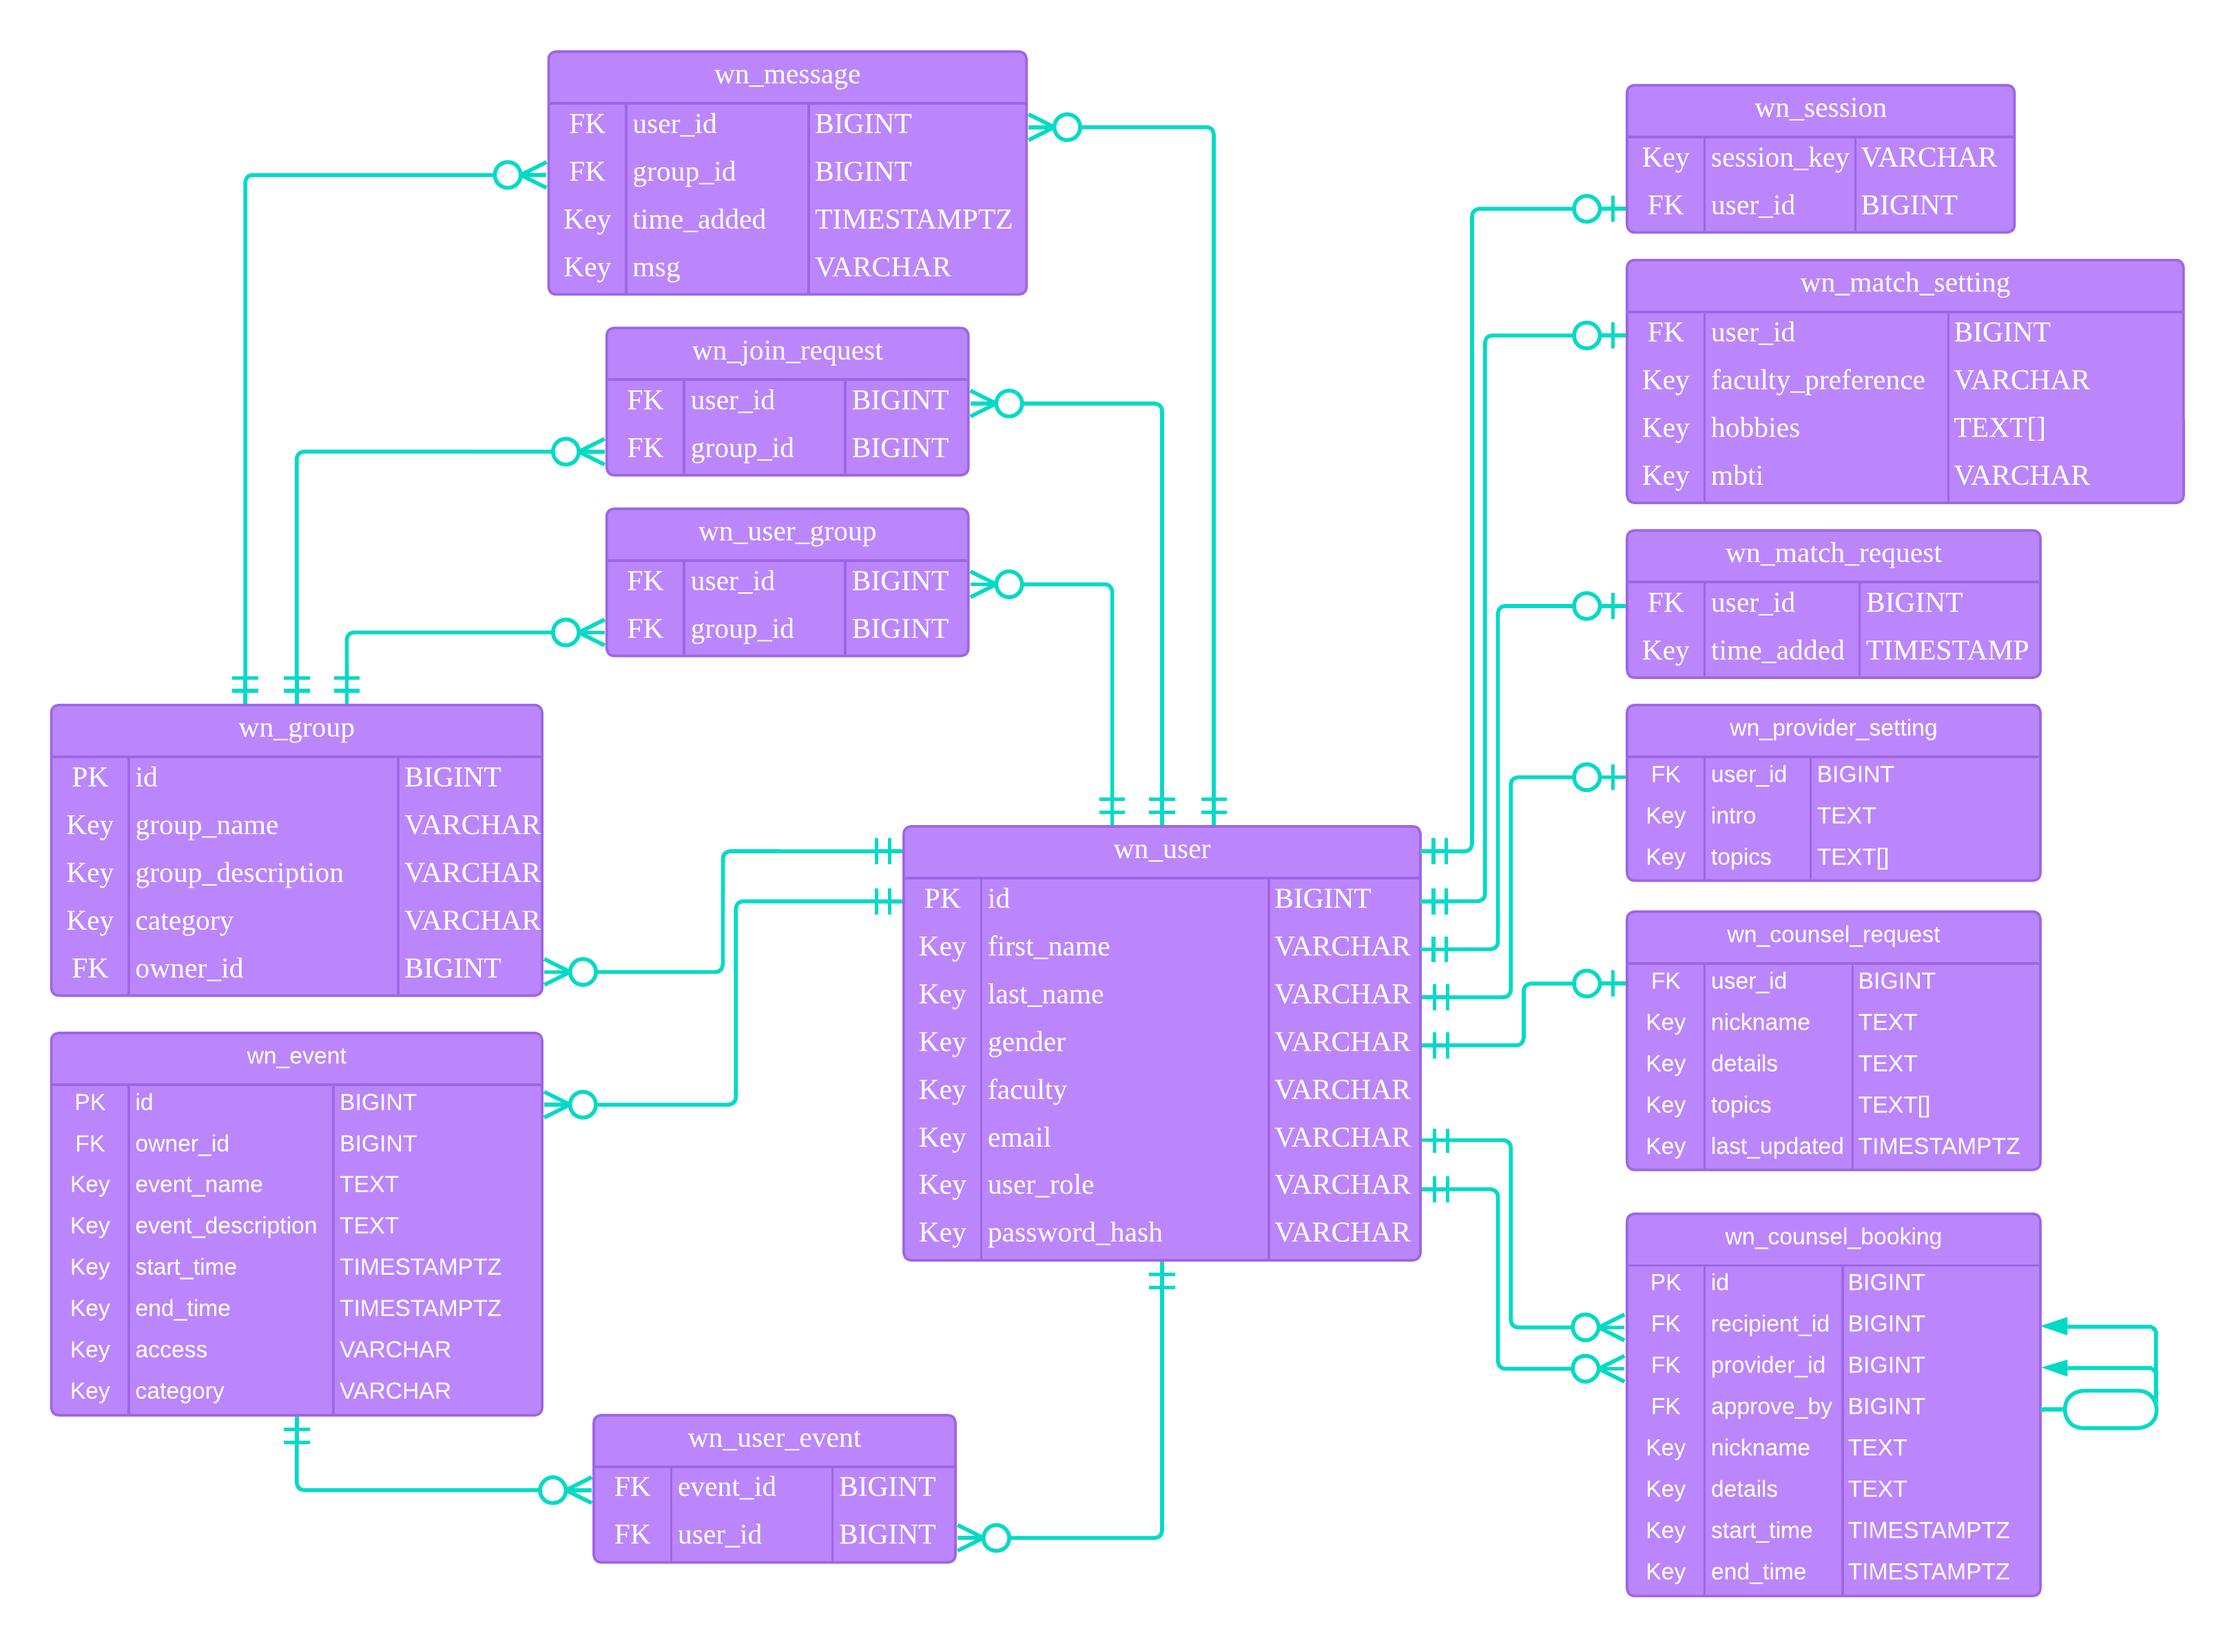
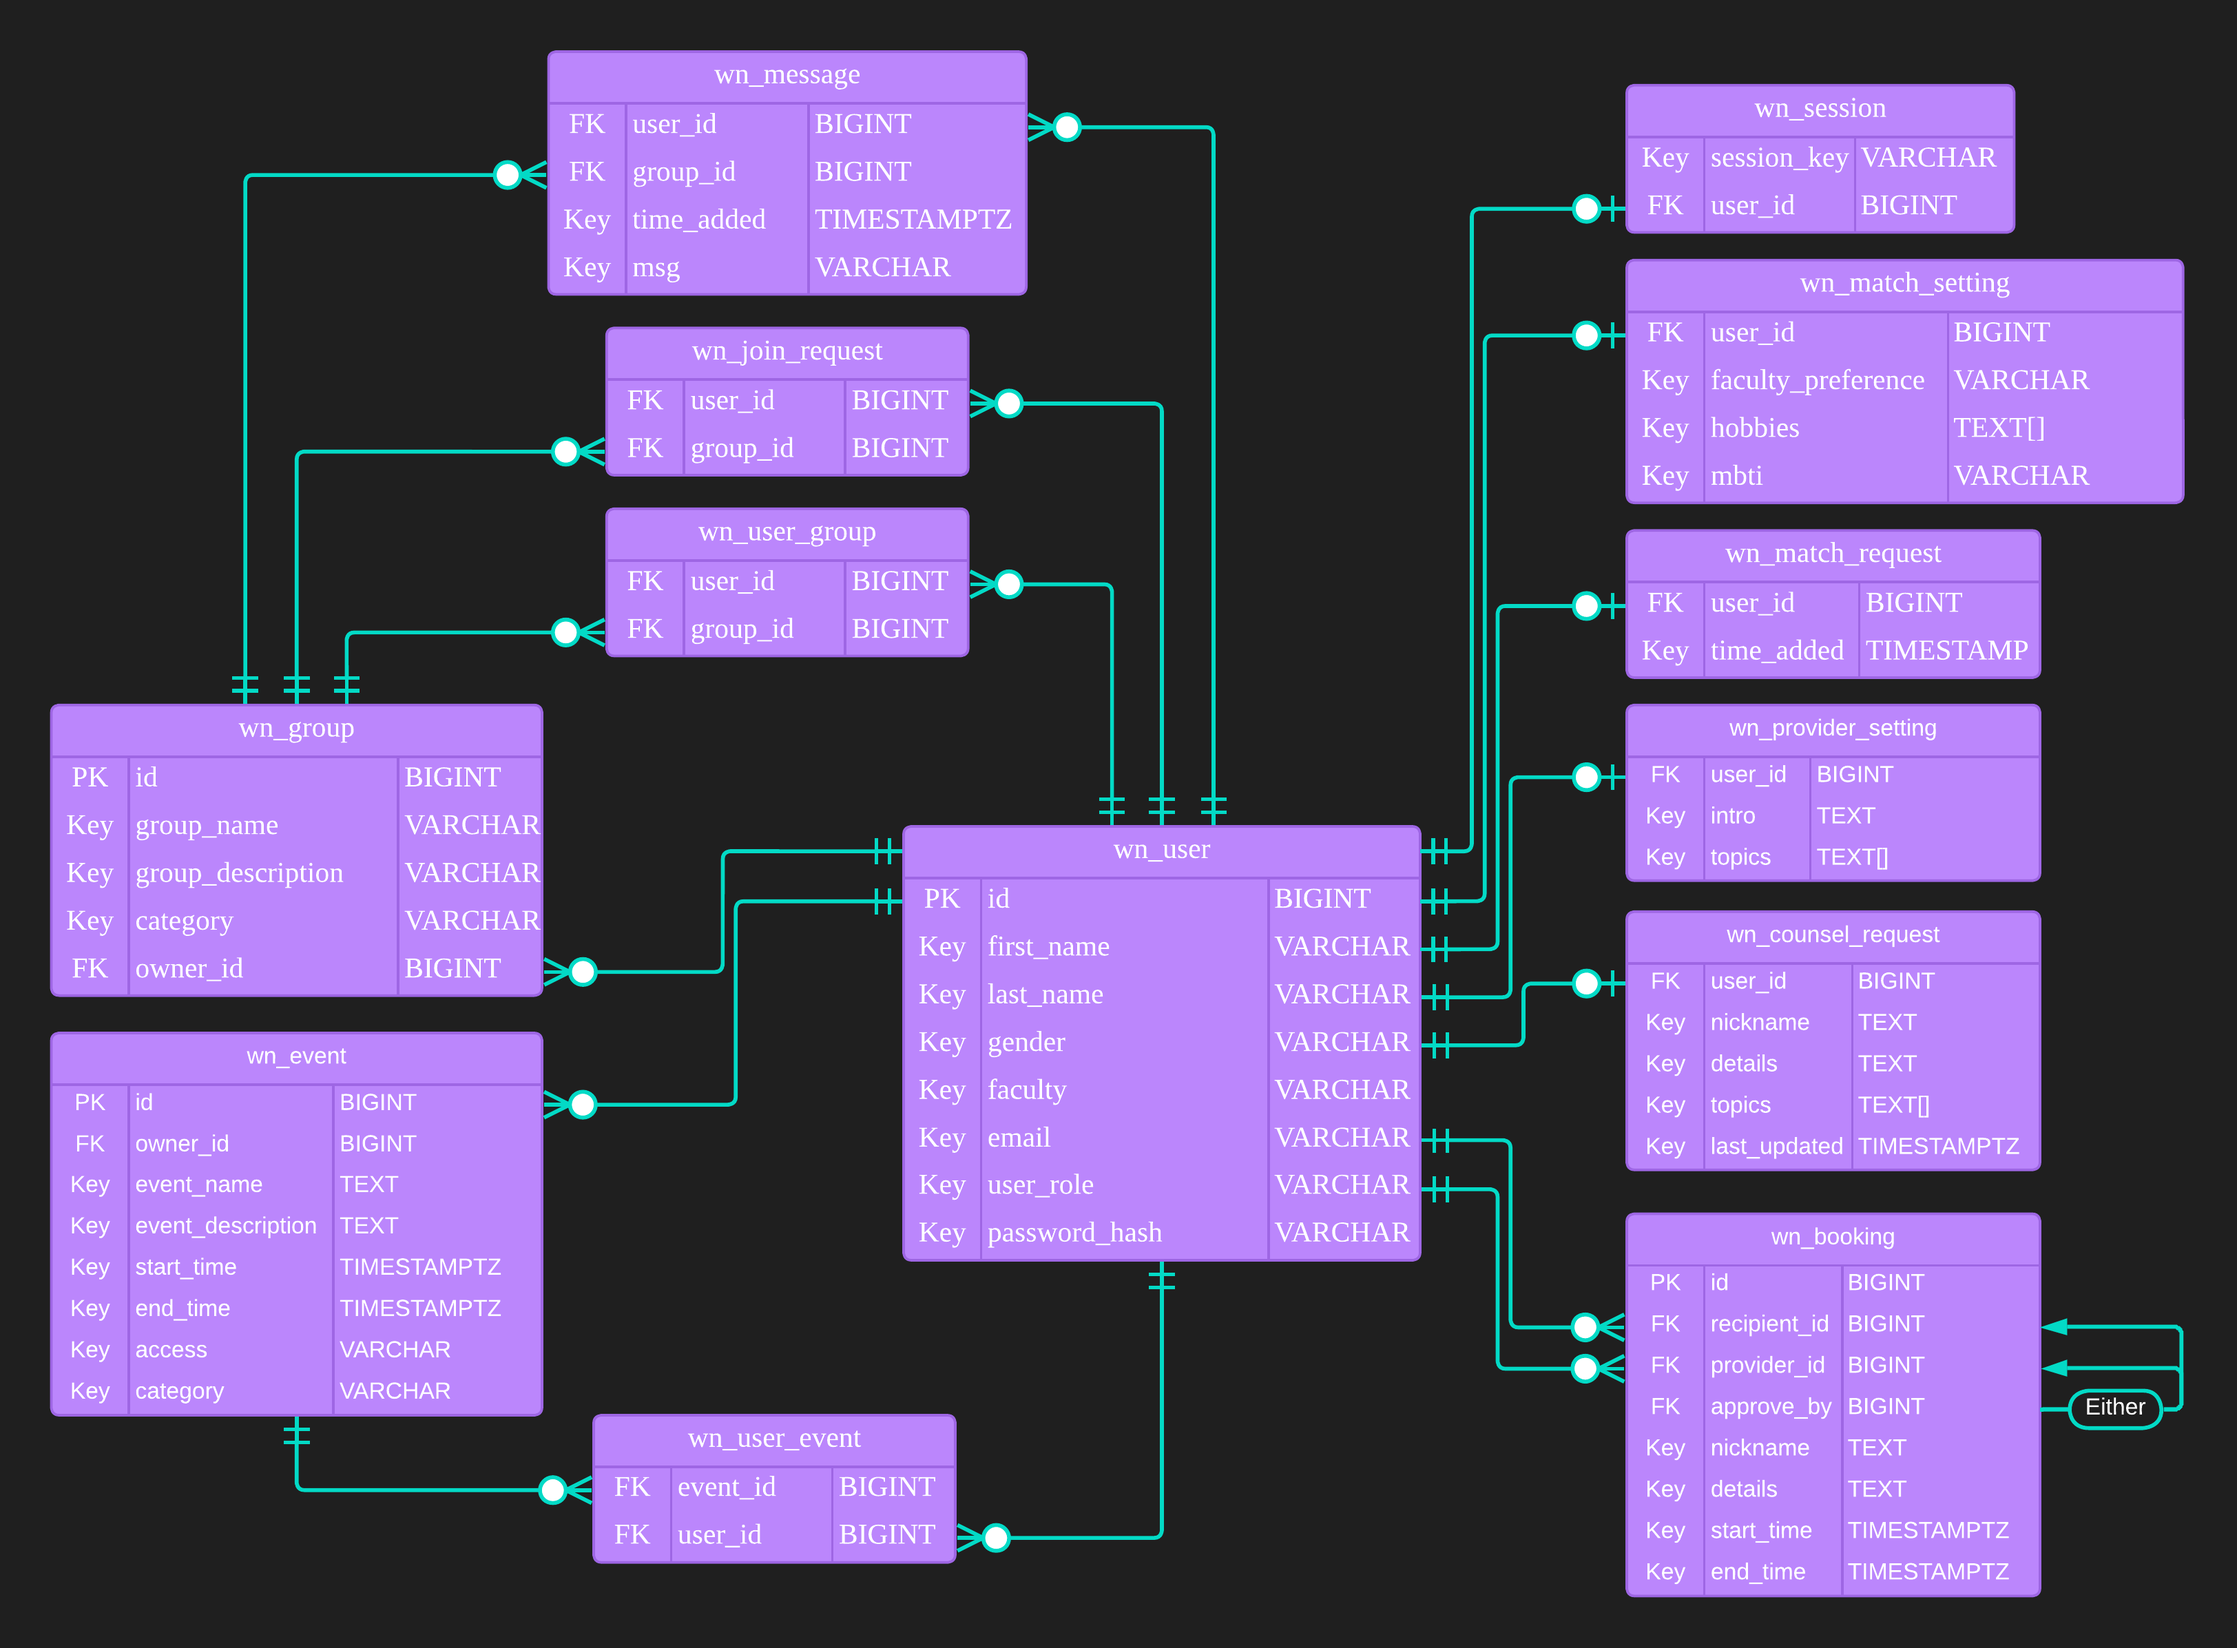
changed name of wn_counsel_booking

diff --git a/db/model/booking_query.go b/db/model/booking_query.go
@@ -59,7 +59,7 @@ func ReadBookingUsers(rows *sql.Rows) ([]BookingUser, error) {
 }
 
 func GetBooking(db *sql.DB, bookingID int64) (Booking, error) {
-	rows, err := db.Query("SELECT * FROM wn_counsel_booking WHERE id = $1", bookingID)
+	rows, err := db.Query("SELECT * FROM wn_booking WHERE id = $1", bookingID)
 	if err != nil { return Booking{}, err }
 	defer rows.Close()
 	bookings, err := ReadBookings(rows)
@@ -69,7 +69,7 @@ func GetBooking(db *sql.DB, bookingID int64) (Booking, error) {
 }
 
 func DeleteBooking(db *sql.DB, bookingID int64) (Booking, error) {
-	_, err := db.Exec("DELETE FROM wn_counsel_booking WHERE id = $1", bookingID)
+	_, err := db.Exec("DELETE FROM wn_booking WHERE id = $1", bookingID)
 	if err != nil { return Booking{}, err }
 	return Booking{ ID : bookingID }, nil
 }
@@ -79,14 +79,14 @@ func DeleteBooking(db *sql.DB, bookingID int64) (Booking, error) {
 func GetAllBookingUsersSentOfUser(db *sql.DB, userID int64) ([]BookingUser, error) {
 	rows, err := db.Query(
 		`SELECT 
-			wn_counsel_booking.id, 
-			wn_counsel_booking.recipient_id, 
-			wn_counsel_booking.provider_id,
-			wn_counsel_booking.approve_by,
-			wn_counsel_booking.nickname,
-			wn_counsel_booking.details,
-			wn_counsel_booking.start_time,
-			wn_counsel_booking.end_time,
+			wn_booking.id, 
+			wn_booking.recipient_id, 
+			wn_booking.provider_id,
+			wn_booking.approve_by,
+			wn_booking.nickname,
+			wn_booking.details,
+			wn_booking.start_time,
+			wn_booking.end_time,
 			wn_user.id,
 			wn_user.first_name,
 			wn_user.last_name,
@@ -95,9 +95,9 @@ func GetAllBookingUsersSentOfUser(db *sql.DB, userID int64) ([]BookingUser, erro
 			wn_user.email,
 			wn_user.user_role,
 			wn_user.password_hash
-		FROM wn_counsel_booking JOIN wn_user
-		ON wn_counsel_booking.provider_id = wn_user.id
-		WHERE wn_counsel_booking.recipient_id = $1`,
+		FROM wn_booking JOIN wn_user
+		ON wn_booking.provider_id = wn_user.id
+		WHERE wn_booking.recipient_id = $1`,
 		userID)
 	if err != nil { return nil, err }
 	defer rows.Close()
@@ -109,14 +109,14 @@ func GetAllBookingUsersSentOfUser(db *sql.DB, userID int64) ([]BookingUser, erro
 func GetAllBookingUsersReceivedOfUser(db *sql.DB, userID int64) ([]BookingUser, error) {
 	rows, err := db.Query(
 		`SELECT 
-			wn_counsel_booking.id, 
-			wn_counsel_booking.recipient_id, 
-			wn_counsel_booking.provider_id,
-			wn_counsel_booking.approve_by,
-			wn_counsel_booking.nickname,
-			wn_counsel_booking.details,
-			wn_counsel_booking.start_time,
-			wn_counsel_booking.end_time,
+			wn_booking.id, 
+			wn_booking.recipient_id, 
+			wn_booking.provider_id,
+			wn_booking.approve_by,
+			wn_booking.nickname,
+			wn_booking.details,
+			wn_booking.start_time,
+			wn_booking.end_time,
 			wn_user.id,
 			wn_user.first_name,
 			wn_user.last_name,
@@ -125,9 +125,9 @@ func GetAllBookingUsersReceivedOfUser(db *sql.DB, userID int64) ([]BookingUser, 
 			wn_user.email,
 			wn_user.user_role,
 			wn_user.password_hash
-		FROM wn_counsel_booking JOIN wn_user
-		ON wn_counsel_booking.provider_id = wn_user.id
-		WHERE wn_counsel_booking.provider_id = $1`,
+		FROM wn_booking JOIN wn_user
+		ON wn_booking.provider_id = wn_user.id
+		WHERE wn_booking.provider_id = $1`,
 		userID)
 	if err != nil { return nil, err }
 	defer rows.Close()
@@ -139,14 +139,14 @@ func GetAllBookingUsersReceivedOfUser(db *sql.DB, userID int64) ([]BookingUser, 
 func GetAllBookingUsersRequiredOfUser(db *sql.DB, userID int64) ([]BookingUser, error) {
 	rows, err := db.Query(
 		`SELECT 
-			wn_counsel_booking.id, 
-			wn_counsel_booking.recipient_id, 
-			wn_counsel_booking.provider_id,
-			wn_counsel_booking.approve_by,
-			wn_counsel_booking.nickname,
-			wn_counsel_booking.details,
-			wn_counsel_booking.start_time,
-			wn_counsel_booking.end_time,
+			wn_booking.id, 
+			wn_booking.recipient_id, 
+			wn_booking.provider_id,
+			wn_booking.approve_by,
+			wn_booking.nickname,
+			wn_booking.details,
+			wn_booking.start_time,
+			wn_booking.end_time,
 			wn_user.id,
 			wn_user.first_name,
 			wn_user.last_name,
@@ -155,9 +155,9 @@ func GetAllBookingUsersRequiredOfUser(db *sql.DB, userID int64) ([]BookingUser, 
 			wn_user.email,
 			wn_user.user_role,
 			wn_user.password_hash
-		FROM wn_counsel_booking JOIN wn_user
-		ON wn_counsel_booking.provider_id = wn_user.id
-		WHERE wn_counsel_booking.approve_by = $1`,
+		FROM wn_booking JOIN wn_user
+		ON wn_booking.provider_id = wn_user.id
+		WHERE wn_booking.approve_by = $1`,
 		userID)
 	if err != nil { return nil, err }
 	defer rows.Close()
@@ -169,14 +169,14 @@ func GetAllBookingUsersRequiredOfUser(db *sql.DB, userID int64) ([]BookingUser, 
 func GetAllBookingUsersOfUser(db *sql.DB, userID int64) ([]BookingUser, error) {
 	rows, err := db.Query(
 		`SELECT 
-			wn_counsel_booking.id, 
-			wn_counsel_booking.recipient_id, 
-			wn_counsel_booking.provider_id,
-			wn_counsel_booking.approve_by,
-			wn_counsel_booking.nickname,
-			wn_counsel_booking.details,
-			wn_counsel_booking.start_time,
-			wn_counsel_booking.end_time,
+			wn_booking.id, 
+			wn_booking.recipient_id, 
+			wn_booking.provider_id,
+			wn_booking.approve_by,
+			wn_booking.nickname,
+			wn_booking.details,
+			wn_booking.start_time,
+			wn_booking.end_time,
 			wn_user.id,
 			wn_user.first_name,
 			wn_user.last_name,
@@ -185,10 +185,10 @@ func GetAllBookingUsersOfUser(db *sql.DB, userID int64) ([]BookingUser, error) {
 			wn_user.email,
 			wn_user.user_role,
 			wn_user.password_hash
-		FROM wn_counsel_booking JOIN wn_user
-		ON wn_counsel_booking.provider_id = wn_user.id
-		WHERE wn_counsel_booking.recipient_id = $1 
-		OR wn_counsel_booking.provider_id = $2`,
+		FROM wn_booking JOIN wn_user
+		ON wn_booking.provider_id = wn_user.id
+		WHERE wn_booking.recipient_id = $1 
+		OR wn_booking.provider_id = $2`,
 		userID,
 		userID)
 	if err != nil { return nil, err }
@@ -220,7 +220,7 @@ func AddBooking(db *sql.DB, booking Booking, providerID int64, recipientID int64
 	booking.ProviderID = providerID
 	booking.ApproveBy = providerID
 	_, err := db.Exec(
-		`INSERT INTO wn_counsel_booking (
+		`INSERT INTO wn_booking (
 			recipient_id, 
 			provider_id,
 			approve_by,
@@ -250,7 +250,7 @@ func UpdateBooking(db *sql.DB, updatedBooking Booking, bookingID int64, userID i
 	}
 	updatedBooking = updatedBooking.MergeBooking(targetBooking)
 	_, err = db.Exec(
-		`UPDATE wn_counsel_booking SET 
+		`UPDATE wn_booking SET 
 			recipient_id = $1, 
 			provider_id = $2,
 			approve_by = $3,

diff --git a/db/model/booking.go b/db/model/booking.go
@@ -58,7 +58,7 @@ func (bMain Booking) MergeBooking(bAdd Booking) Booking {
 }
 
 func (b Booking) LoadLastBookingID(db *sql.DB) (Booking, error) {
-	row, err := db.Query("SELECT last_value FROM wn_counsel_booking_id_seq;")
+	row, err := db.Query("SELECT last_value FROM wn_booking_id_seq;")
 	if err != nil { return Booking{}, err }
 	defer row.Close()
 	row.Next()

diff --git a/unit_test/booking/booking_test.go b/unit_test/booking/booking_test.go
@@ -258,7 +258,7 @@ func testRespondBookingHandlerApproveAsUser0(t *testing.T) {
 
 	//Assert booking deleted
 	rows, err := DB.Query(
-		`SELECT COUNT(*) FROM wn_counsel_booking
+		`SELECT COUNT(*) FROM wn_booking
 		WHERE id = $1`,
 		testBooking0to1.ID)
 	if err != nil {
